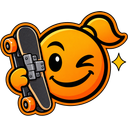
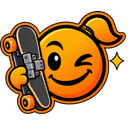
Preview: re-render (owner rule 2026-11-06); echo still overlaps the title, flagged in STATUS

Changed region(s): [[0.0, 0.0625, 1.0, 0.9062]]

diff --git a/STATUS.md b/STATUS.md
@@ -27,7 +27,7 @@ workshop:     "3806761118 (0.1.0, prepublished 2026-09-23; the item is private, 
 remaining:
   - gallery 2026-11-06 (later): ticket 340b filed at 3856c72 (S2 frame zoom 3.0 at (201,190) for a readable smile; S5 Nelim faces North so the folded board shows); replaces captures 2 and 5 only if accepted, old ones deleted in the same commit. Ideas kept for later (not in the five-image plan): hard/soft floor frontier, Atticus scale gag, Yuki, night lamps, FilmTicks GIF.
   - gallery 2026-11-06: tickets bba2, ed7c, f566, deb4, 7c63, 7676 read, all captures opened. Stray dog solved (Shogun is saved in the NSB file: no spawn, keep-out hook `except "Shogun"`). Art/Gallery-clean and Art/Gallery hold 1 to 5 (1-three-boards, 2-it-unfolds, 3-the-race, 4-his-turn, 5-soft-ground; subtitled, read, 0.2 to 0.4 MB each); PUBLICATION.md plan and subtitle tables rewritten. S3 added from ticket efa5 (bubble gone after NPT's `the interaction bubbles are cleared`, log said 0; bubble step played in S3 only, S2, S4, S5 carry it unplayed, S1 does not). Open: S5 folded board not visible (Nelim faces south), accepted as is unless Virginie refuses; Nelim's smile is hard to read in S2 and S5; echo-preview.png touching the title is a mountPreview decision; Preview re-render (next line); Virginie validates the gallery
-  - Preview re-render 2026-11-03 (7b, after docs 70aa492 changed the default background to cover/top left): echo-preview.png touches the bottom of "RD" in the title, so the render was NOT committed and Preview.png, ModIcon.png, Art/Gallery/0-preview.png stay at the 2026-10-25 version; decision for the owner or Audit: panel or echo placement in Art/Preview.config.json (the 2026-11-03 resume had rendered byte-identical before the background default changed)
+  - Preview re-render 2026-11-06 (owner rule of the day: render and commit without asking): Preview.png, ModIcon.png, Art/Gallery/0-preview.png rendered and committed; DOUBTFUL: echo-preview.png still overlaps the bottom of "RD" in "SKATEBOARD" (title, second line); owner validates or reverts, fix = panel or echo placement in Art/Preview.config.json
   - done 2026-11-03 (8.f met): ticket 22ce (avec-lts, 09-lts-floors, tree 40af532) 4 of 4 passed, exitReason passed, one attempt each; minified into Tests/Pickle/Evidence/avec-lts (RELEASE.md), Inbox empty, line in Docs/runs/. Prune-Evidence.ps1 -Apply run once, Parked/p17-fs-english-1017 set aside during the run and put back (its condition is a green 1.7 run). Next: 8.n, then the 1.7 pass. [LTS]Furnishing thank-you in WORKSHOP_COMMENTS.md still to do
   - done 2026-10-31 (7.b, after replay-audit moved the stage back to writeTests): b5d4d96 had deleted the local script of the 15 offline tests; by Audit order (owner) no restore and no LOCAL row. scripts/Check-HarmonyContract.ps1 (shared) 11 of 11 passed on E829298B..., unchanged since 2da8077. Written not applicable, Audit agreed: floor names vs game TerrainDefs (20+ names, Pickle 03 plays seven floors), exact definition values (shape and references by Check-XmlFields, Check-DefRefs, Check-TypeRefs green the same day), one {0} per template and borrowed vanilla keys (no second mod asked, none borrowed). TESTING.md paths corrected. Stage back to playTests[1.0.0]. Also for 10.e: root holds FRENCH_REVIEW.md, TESTING.md, PUBLICATION.md, ATTRIBUTION.md, CHANGELOG.md, desktop.ini beside STATUS/README/LICENSE, and both docs/ and Docs/ names exist: check against the closed list of STYLE_RIMWORLD.md at mountPreview
   - done 2026-10-31 (non-regression on tree 7e54a40, after the last code commit 2037264, English, French and feature 06 all played on the current Mod/): 4d45 (full suite, English) and d2c1 (full suite, French) 28 passed, 0 failed, 5 skipped each (feature 06 by requirement, four gallery scenarios by design), exitReason passed; 173e (06-incompatible-original) 1 of 1 passed, exitReason passed, the collision on the board's defName read from the log queue. Minified into Tests/Pickle/Evidence/2026-10-31-full-en, 2026-10-31-full-fr, 2026-10-31-incompat-original (RELEASE.md in each), Inbox empty, three lines in Docs/runs/. The five captures of each full run were not opened (feature 05 proof stays 2026-10-13-captures-fr-2, ticket 0f2a). Evidence of 69a1 deleted (superseded by 173e). Parked/p17-fs-english-1017 kept: its condition is a green 1.7 run, not the 1.6 green that Prune-Evidence.ps1 reads as release
@@ -58,7 +58,7 @@ remaining:
   - resolved 2026-09-28 (preTest to done): the Pickle suite is written in Tests/Pickle/ (6 features, 23 step patterns, a README that justifies the scope, two pass maps), and Check-Steps.ps1 resolves every step line to exactly one step. Written, not run: done does not ask for a run
 session:      local_b01ccdc3-6c60-4c47-bf84-550369df5630
 updated:      2026-11-03, 8.n: stage moved to shootGallery[1.0.0] after ticket 22ce (avec-lts 4 of 4); 2026-11-03, resume: Preview re-rendered, Preview.png byte-identical (nothing to commit), protocols re-read; 2026-10-31, playTests: tested_on refreshed, no @wip in features 01 to 07 and the head of 08, scenario 2 (recipe in game) written not applicable in TESTING.md, open 8.f (avec-lts) and the 1.7 pass; 7.b met by the shared Check-HarmonyContract 11 of 11, stage writeTests back to playTests (replay-audit had moved it back); 2026-10-31, resume: 173e, 4d45 and d2c1 all passed, Inbox triaged into Evidence/, offline tests gap still open; 2026-10-30, replay-audit: stage kept playTests[1.0.0], first unfulfilled 8.c/8.f (173e pending), offline tests gap noted in remaining; 2026-10-11, full audit of transitions 1 to 7 against AUDIT.md ad0347e: retained writeTests[1.0.0] (7.g fails: translation_fr partial, Virginie review pending; target version 1.0.0 per CHANGELOG, not 0.1.0); the table-only mapping to playTests was wrong (stage field removed, protocols_read_sha written), capture-facing replay ticket bfee filed; 2026-10-02, audit re-applied against AUDIT.md d1fdbe1 (stage kept, workflow_stage added, evidence trimmed, protocols re-read); 2026-09-30, translation_fr set to partial (FRENCH_REVIEW.md generated, awaiting Virginie's review); fourth capture replay's cause found (undrafted colonist picks up a real haul job that overrides Rotation) and fixed (StopAll + StopDead in the facing step), fifth replay to file
-protocols_read_sha: 90e3acfe2a2a19486adf26296a0d088d8e82d1f6
+protocols_read_sha: f7592aa80bf9af62b5743df4685935b6ff26d48c
 ---
 # Folding Skateboard Renew — status
 
